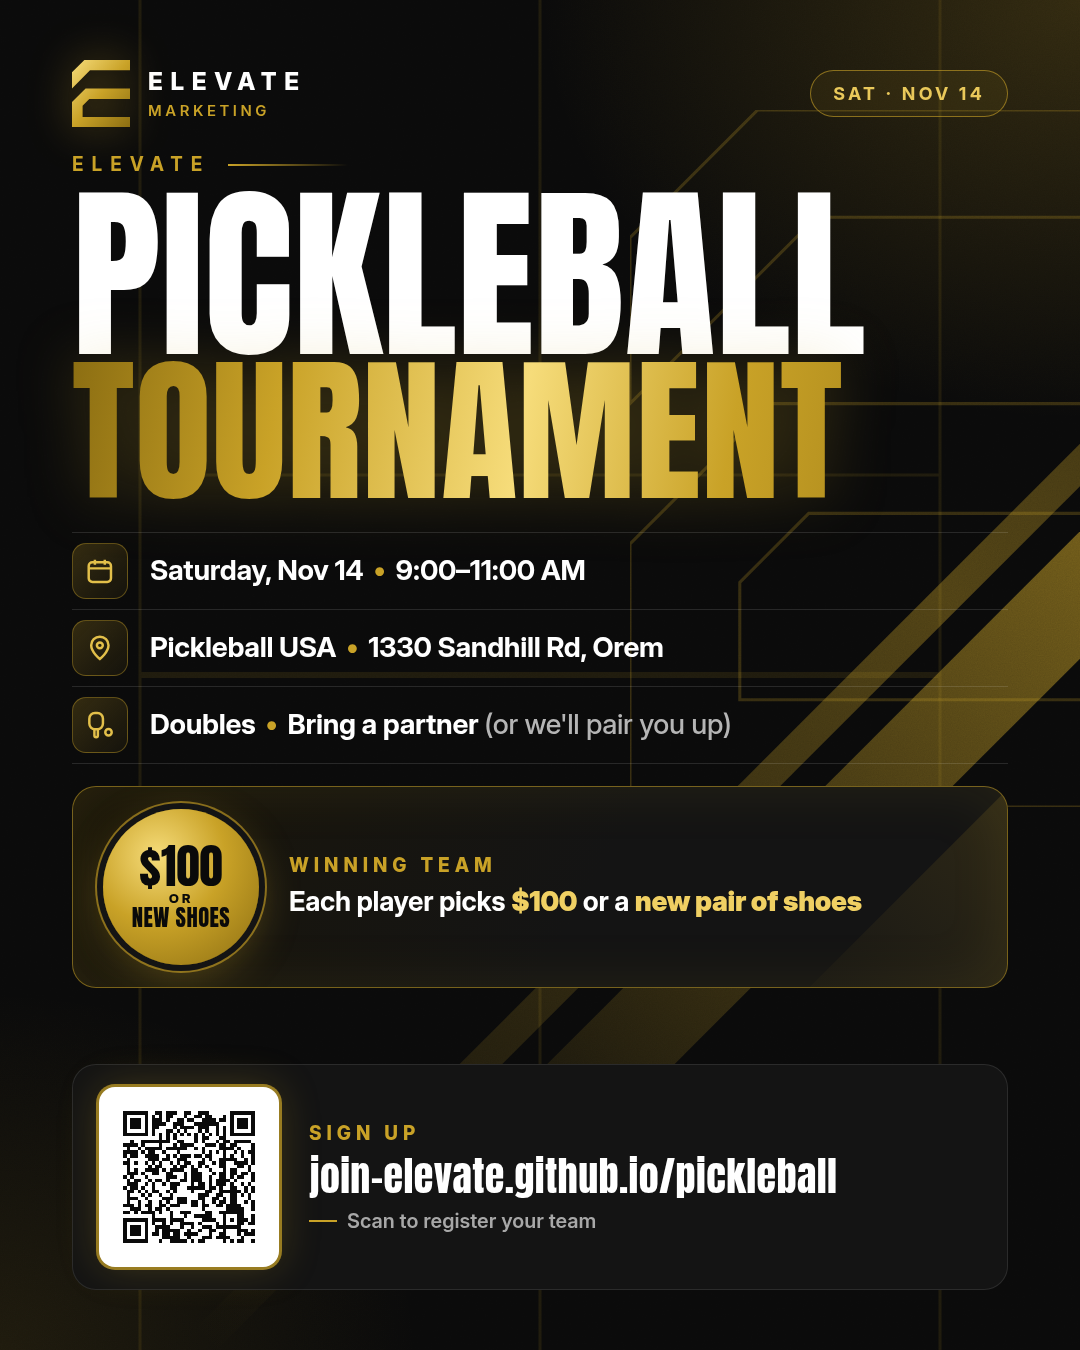
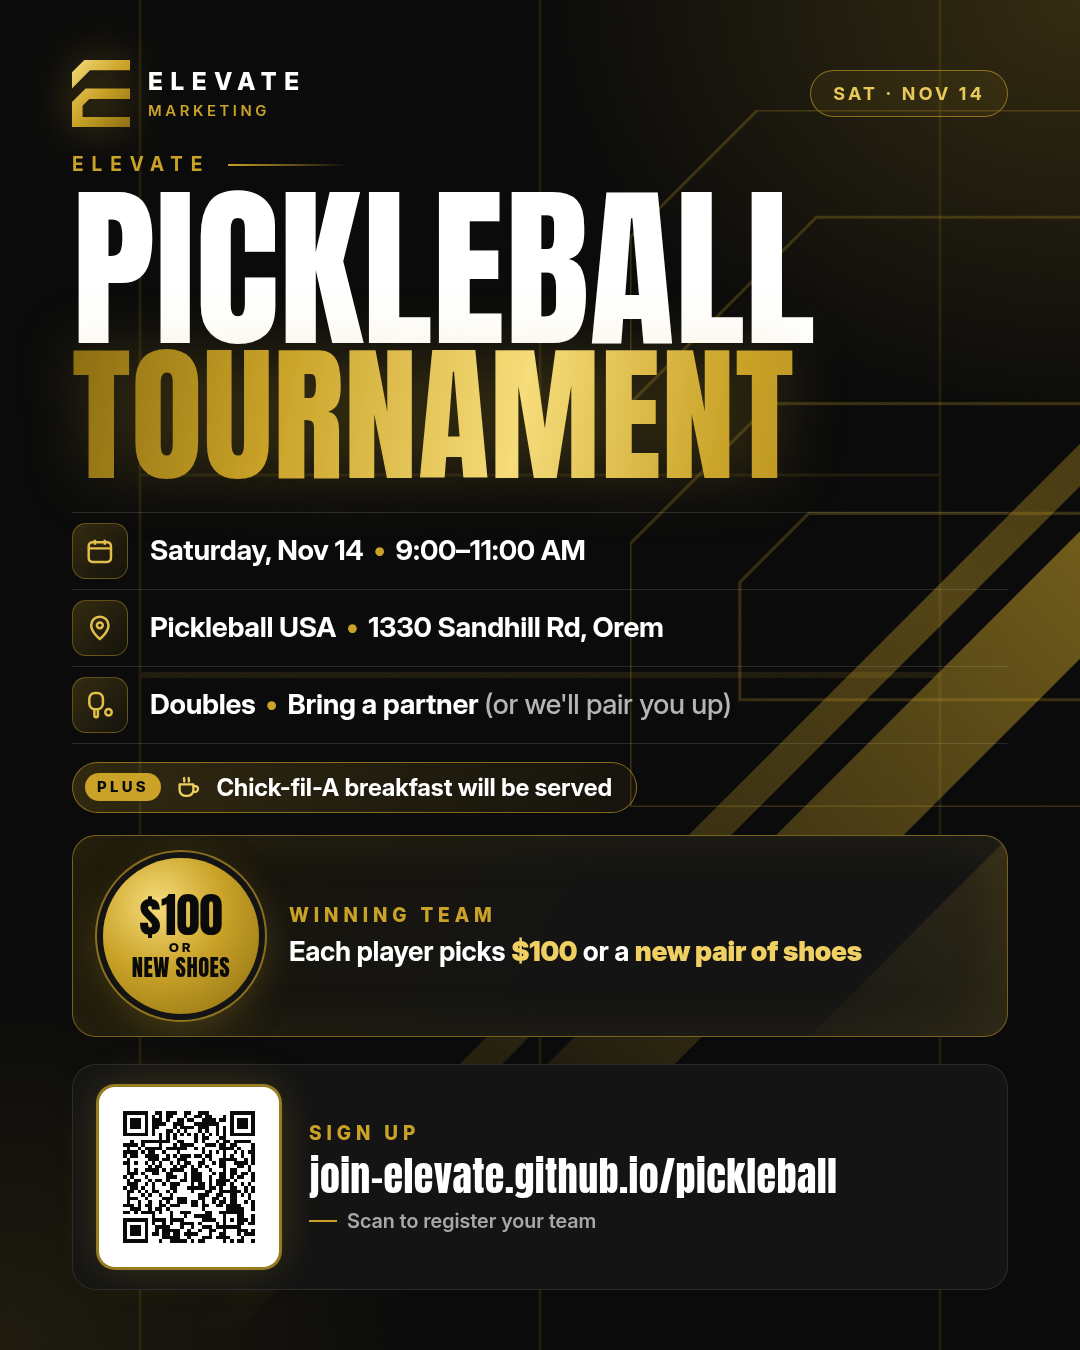
Pickleball page: add Chick-fil-A breakfast callout

Changed region(s): [[0.0611, 0.1244, 0.7944, 0.7778], [0.6417, 0.56, 0.9472, 0.6222], [0.825, 0.7156, 0.9472, 0.7778]]

diff --git a/pickleball/index.html b/pickleball/index.html
@@ -163,6 +163,10 @@
     .prize-copy .l { display: block; color: var(--gold); font-size: 11px; font-weight: 800; letter-spacing: .24em; text-transform: uppercase; margin-bottom: 4px; }
     .prize-copy p { margin: 0; font-size: 1.02rem; font-weight: 700; line-height: 1.35; }
     .prize-copy strong { color: #F0D063; }
+    .bfast { display: flex; align-items: center; gap: 9px; margin: -4px 0 18px; padding: 11px 12px 11px 9px; border-radius: 999px; background: linear-gradient(100deg, rgba(201,162,39,.20), rgba(201,162,39,.06)); border: 1px solid rgba(201,162,39,.6); font-weight: 700; font-size: .92rem; line-height: 1.25; letter-spacing: -.01em; }
+    .bfast svg { width: 20px; height: 20px; flex: none; color: #F0D063; }
+    .bfast .tag { flex: none; font-size: 10px; font-weight: 800; letter-spacing: .2em; text-transform: uppercase; color: #0A0A0A; background: var(--gold); border-radius: 999px; padding: 4px 9px; }
+    @media (max-width: 400px) { .bfast .tag { display: none; } .bfast { padding-left: 14px; font-size: .96rem; } }
     #form-card { border-top: 2px solid var(--gold); }
     form h2, #thanks h2 {
       margin: 0 0 6px;
@@ -374,6 +378,8 @@
         </div>
       </div>
     </section>
+
+    <p class="bfast"><span class="tag">Plus</span><svg viewBox="0 0 24 24" fill="none" stroke="currentColor" stroke-width="2" stroke-linecap="round" stroke-linejoin="round" aria-hidden="true"><path d="M4 9h12v5a5 5 0 0 1-5 5H9a5 5 0 0 1-5-5z"/><path d="M16 10.5h1.5a2.5 2.5 0 0 1 0 5H16"/><path d="M8 3.5c-.8 1 .8 2 0 3M12 3.5c-.8 1 .8 2 0 3"/></svg><span>Chick-fil-A breakfast will be served</span></p>
 
     <section class="prize" aria-label="Prize">
       <div class="badge" aria-hidden="true"><div><div class="m">$100</div><div class="o">OR</div><div class="s">New shoes</div></div></div>
